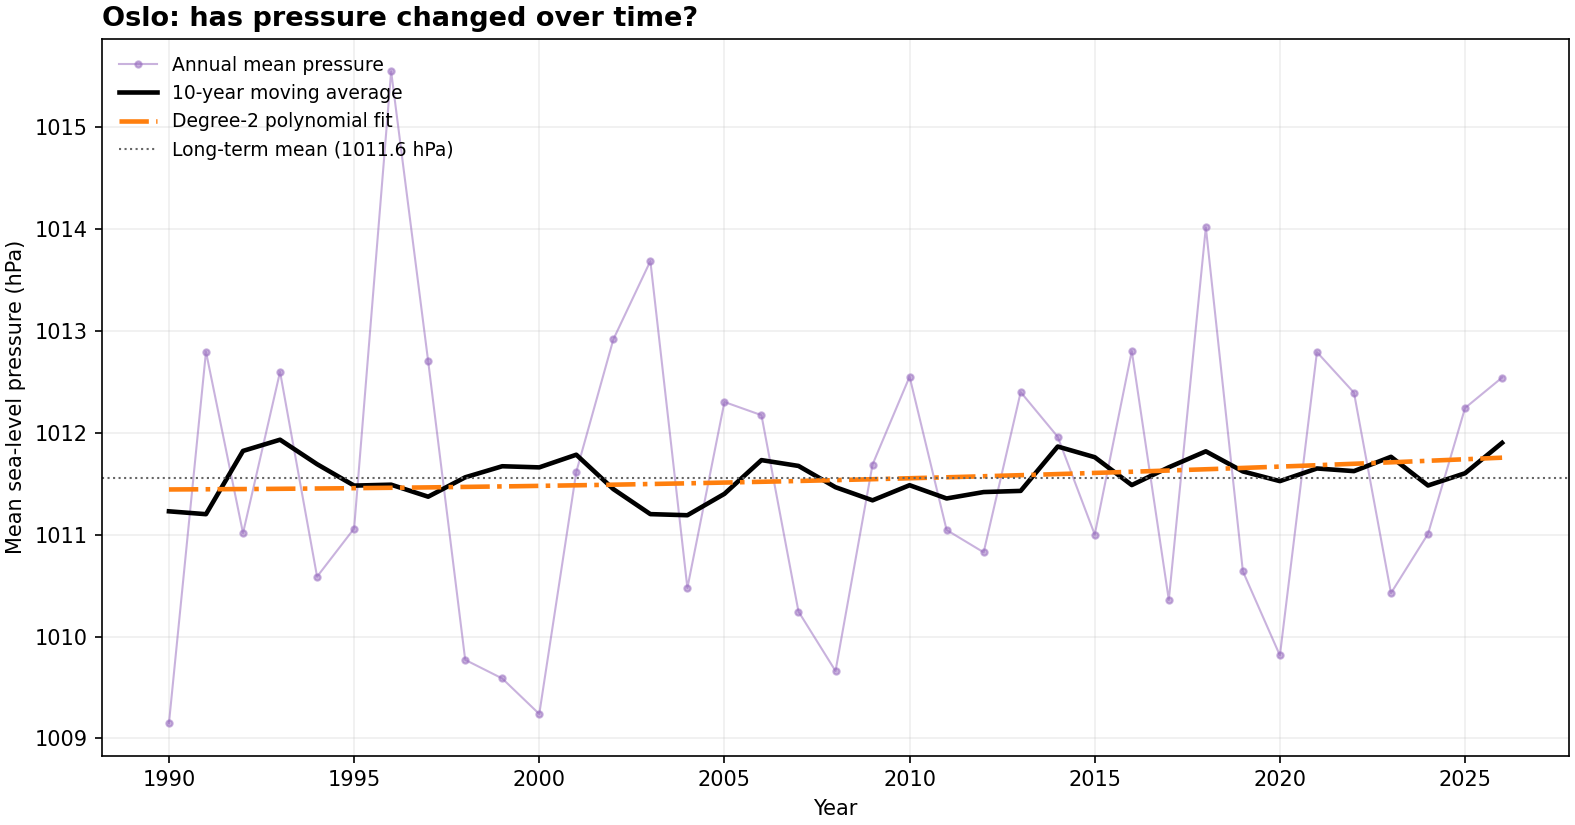
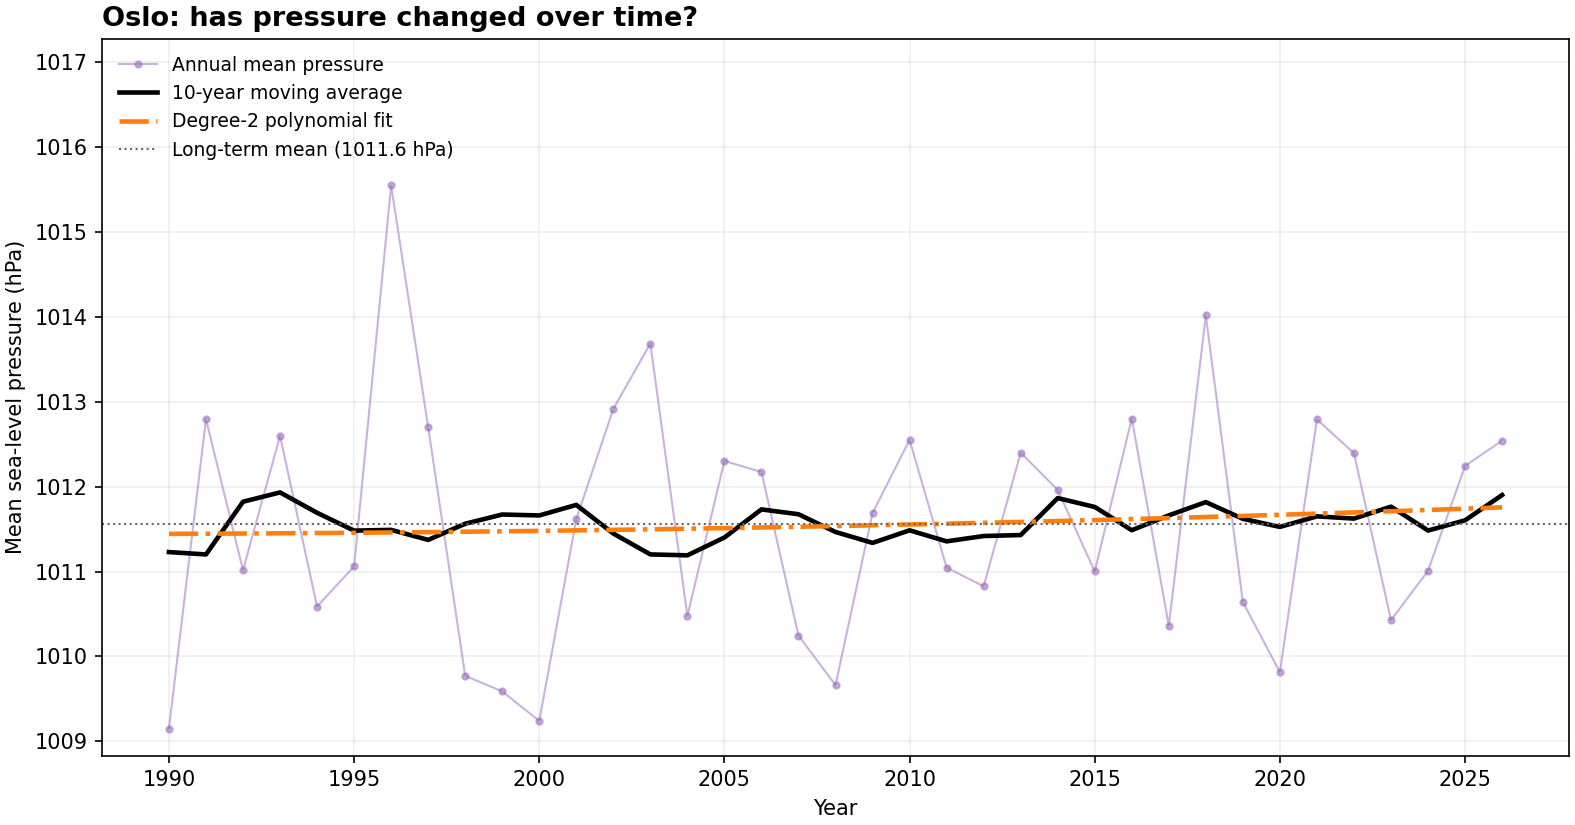
Fixed some plots

diff --git a/Mini-Lab2/climate_plots.py b/Mini-Lab2/climate_plots.py
@@ -31,6 +31,14 @@ def _shade_months(ax, color="0.90"):
                    color=color, zorder=0, linewidth=0)
 
 
+def _add_top_margin(ax, frac=0.12):
+    """Push the y-axis top up by frac of the current data range, so an
+    "upper left"/"upper right" legend has clear air above the plotted
+    lines/points instead of sitting on top of them."""
+    bottom, top = ax.get_ylim()
+    ax.set_ylim(bottom, top + frac * (top - bottom))
+
+
 def _caption(fig, source_note: str):
     if source_note:
         fig.text(0.01, -0.04, source_note, fontsize=8, ha="left", va="top", wrap=True)
@@ -112,6 +120,7 @@ def plot_temperature_vs_normal(
     )
     ax.legend(loc="upper left", fontsize=8, frameon=False, ncol=2)
     ax.grid(alpha=0.2)
+    _add_top_margin(ax, frac=0.06)
     _caption(fig, source_note)
     return fig, ax
 
@@ -499,36 +508,31 @@ def plot_pressure_vs_normal(
     ax.set_xlabel("Day of year")
     ax.set_ylabel("Mean sea-level pressure (hPa)")
     ax.set_title(
-        f"{place}: {current_year} pressure vs. pressure normal ({used_years[0]}–{used_years[1]} normal)",
+        f"{place}: is {current_year} pressure normal? (vs. {used_years[0]}–{used_years[1]} normal)",
         loc="left", fontsize=13, fontweight="bold",
     )
     ax.legend(loc="upper left", fontsize=9, frameon=False)
     ax.grid(alpha=0.2)
+    _add_top_margin(ax, frac=0.14)
     _caption(fig, source_note)
     return fig, ax
 
 
-def plot_pressure_monthly_boxplot(
-    df, pressure_col, place, reference_years=(1991, 2020), highlight_years=None, source_note="",
-):
-    """Part 3a: within-month pressure variation, using only the reference
-    period as "normal". Box = 25th-75th percentile (IQR) of the reference
-    period's daily values; whiskers extend to the true min/max observed in
-    that same period (not the usual 1.5x IQR Tukey rule) so anything
-    sitting outside the whiskers is genuinely outside the historical
-    baseline, not just a statistical outlier definition.
-    highlight_years (e.g. [2025, 2026]) have their own individual daily
-    values scattered on top, at the same day-level resolution as the box
-    itself - a single monthly-mean marker per year would (correctly) never
-    reach the whisker tips, since a month's mean is always less extreme
-    than its most extreme day, which made the whiskers look like they had
-    no data behind them. Plotting actual days instead keeps everything on
-    one scale and lets a highlighted year's own extremes show up directly."""
+def plot_pressure_monthly_boxplot(df, pressure_col, place, source_note=""):
+    """Part 3a: within-month pressure variation. Box = 25th-75th
+    percentile, whiskers = true min-max, both computed from each year's
+    mean pressure for that month - the same points shown as the coloured
+    scatter (one dot per year, coloured by year) - rather than from daily
+    values. A box built from daily values would have whisker tips no
+    scattered point could ever reach, since a month's mean is always less
+    extreme than its most extreme day (averaging narrows the range); here
+    the box/whiskers and the dots are the same data, so the whisker tips
+    are always an actual plotted year. Day-to-day variation is instead
+    covered by plot_pressure_vs_normal, which shows actual daily pressure."""
     d = df.dropna(subset=[pressure_col])
-    ref, used_years = _reference_period(d, reference_years)
-    data_by_month = [ref.loc[ref["month"] == m, pressure_col].values for m in range(1, 13)]
-
-    highlight_years = [y for y in (highlight_years or []) if y in d["year"].unique()]
+    monthly_means = d.groupby(["year", "month"])[pressure_col].mean().reset_index()
+    data_by_month = [monthly_means.loc[monthly_means["month"] == m, pressure_col].values
+                      for m in range(1, 13)]
 
     fig, ax = plt.subplots(figsize=(10.5, 5.5), constrained_layout=True)
     ax.boxplot(data_by_month, tick_labels=MONTH_LABELS, whis=(0, 100), patch_artist=True,
@@ -540,33 +544,36 @@ def plot_pressure_monthly_boxplot(
                                markersize=7, markeredgewidth=1.3),
                zorder=3)
 
-    marker_styles = ["o", "^", "s", "D"]
-    highlight_colors = ["black", "tab:green", "tab:orange", "tab:cyan"]
+    cmap = plt.get_cmap("coolwarm")
+    norm = plt.Normalize(vmin=monthly_means["year"].min(), vmax=monthly_means["year"].max())
     rng = np.random.default_rng(0)
-    for color, marker, year in zip(highlight_colors, marker_styles, sorted(highlight_years)):
-        sub = d[d["year"] == year]
-        jitter = rng.uniform(-0.15, 0.15, size=len(sub))
-        ax.scatter(sub["month"] + jitter, sub[pressure_col], color=color, marker=marker,
-                   s=16, alpha=0.75, linewidths=0, zorder=4, label=f"{year} daily values")
+    jitter = rng.uniform(-0.15, 0.15, size=len(monthly_means))
+    ax.scatter(monthly_means["month"] + jitter, monthly_means[pressure_col],
+               c=monthly_means["year"], cmap=cmap, norm=norm,
+               alpha=0.7, s=16, linewidths=0, zorder=2)
 
     ax.set_ylabel("Mean sea-level pressure (hPa)")
     ax.set_title(f"{place}: pressure variation within a month", loc="left", fontsize=13, fontweight="bold")
-
-    ref_label = f"{used_years[0]}–{used_years[1]}"
-    handles, labels = ax.get_legend_handles_labels()
-    box_handles = [
-        Patch(facecolor="tab:purple", alpha=0.4, label=f"25th–75th percentile ({ref_label})"),
-        Line2D([0], [0], color="0.3", linewidth=1.2, label=f"Min–max ({ref_label})"),
-        Line2D([0], [0], color="black", linewidth=1.8, label=f"Median ({ref_label})"),
-        Line2D([0], [0], marker="X", color="none", markerfacecolor="white",
-               markeredgecolor="black", markersize=7, markeredgewidth=1.3, label=f"Mean ({ref_label})"),
-    ]
-    ax.legend(handles=box_handles + handles, loc="upper left", fontsize=8, frameon=False, ncol=2)
+    ax.legend(
+        handles=[
+            Patch(facecolor="tab:purple", alpha=0.4, label="25th–75th percentile"),
+            Line2D([0], [0], color="0.3", linewidth=1.2, label="Min–max"),
+            Line2D([0], [0], color="black", linewidth=1.8, label="Median"),
+            Line2D([0], [0], marker="X", color="none", markerfacecolor="white",
+                   markeredgecolor="black", markersize=7, markeredgewidth=1.3, label="Mean"),
+        ],
+        loc="upper left", fontsize=8, frameon=False,
+    )
     ax.grid(alpha=0.2, axis="y")
+    _add_top_margin(ax, frac=0.20)
+
+    sm = plt.cm.ScalarMappable(cmap=cmap, norm=norm)
+    sm.set_array([])
+    fig.colorbar(sm, ax=ax, pad=0.01, aspect=30, label="Year")
 
     _caption(fig, source_note + (
-        f" Box/whiskers built from every daily value in the {ref_label} reference period; "
-        "highlighted years' points are their own individual days, at that same resolution."
+        " Each dot is one year's mean pressure for that month, coloured by year; "
+        "box/whiskers summarise that same set of points."
     ))
     return fig, ax
 
@@ -606,6 +613,7 @@ def plot_pressure_annual_trend(df, pressure_col, place, smooth_years=10, poly_de
     ax.set_title(f"{place}: has pressure changed over time?", loc="left", fontsize=13, fontweight="bold")
     ax.legend(loc="upper left", fontsize=9, frameon=False)
     ax.grid(alpha=0.2)
+    _add_top_margin(ax, frac=0.20)
     _caption(fig, source_note + (
         f" Overall linear trend across the full period: {slope * 10:+.2f} hPa/decade "
         "(the polynomial fit is for shape, not a trend rate)."

diff --git a/Mini-Lab2/plot_climate.py b/Mini-Lab2/plot_climate.py
@@ -96,12 +96,7 @@ def main():
                 source_note=source_note,
             )
             figures.append(("pressure_vs_normal", fig))
-            fig, _ = cp.plot_pressure_monthly_boxplot(
-                df, pressure_col, place,
-                reference_years=REFERENCE_YEARS,
-                highlight_years=[CURRENT_YEAR, CURRENT_YEAR + 1],
-                source_note=source_note,
-            )
+            fig, _ = cp.plot_pressure_monthly_boxplot(df, pressure_col, place, source_note=source_note)
             figures.append(("pressure_monthly_boxplot", fig))
             fig, _ = cp.plot_pressure_annual_trend(df, pressure_col, place, source_note=source_note)
             figures.append(("pressure_annual_trend", fig))
